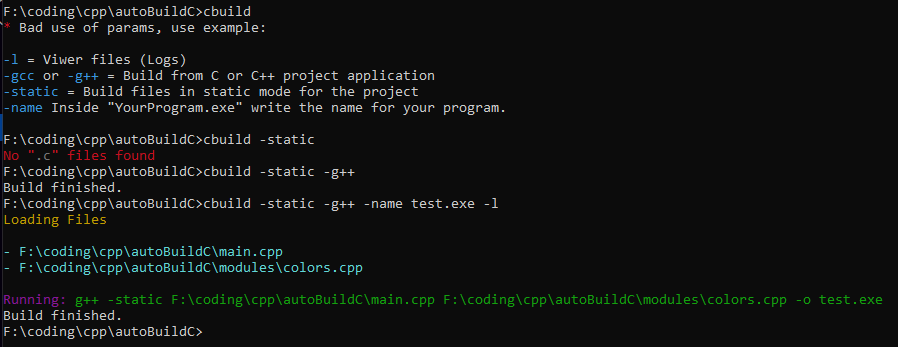
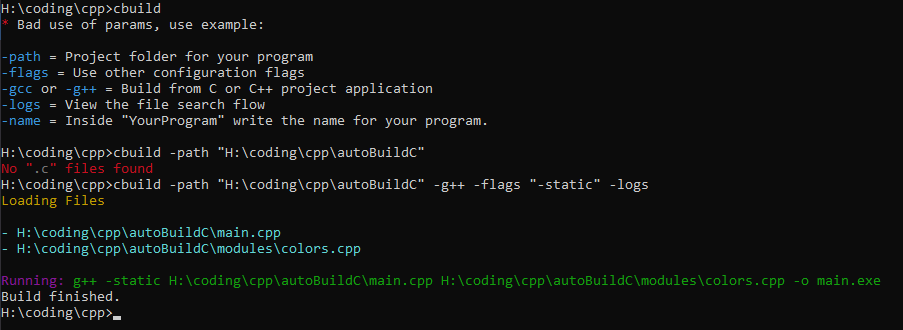
Melhorias de flexibilidade, adicionado novas flags e remoção da flag '-static', agora deve ser usando (-flags -static)

diff --git a/main.cpp b/main.cpp
@@ -22,27 +22,42 @@ void loopPath(const std::filesystem::path& path, std::string filter, bool& logs)
 
 int main(int argc, char* argv[]) {
   bool logsOpc = false;
-  bool staticOpc = false;
+  std::filesystem::path current_path = std::filesystem::current_path();
+  std::string otherFlags = "";
   std::string nameOpc = "main.exe";
   std::string code = "gcc ";
   std::string filter = ".c";
 
   #ifdef _WIN32
-  std::setlocale(LC_ALL, "Portuguese_Brazil.1252");
+  // std::setlocale(LC_ALL, "Portuguese_Brazil.1252");
   system("@echo off");
   system("title @Beta");
   #else
-  std::setlocale(LC_ALL, "pt_BR.UTF-8");
+  // std::setlocale(LC_ALL, "pt_BR.UTF-8");
   #endif
 
-  if (argc > 6 || argc < 2) {
-    std::cout << Colors::RED << "* " << Colors::DEFAULT << "Bad use of params, use example:\n\n" << Colors::BLUE << "-l " << Colors:: DEFAULT << "= Viwer files (Logs)\n" << Colors::BLUE << "-gcc "<< Colors::DEFAULT << "or" << Colors::BLUE << " -g++" << Colors::DEFAULT << " = Build from C or C++ project application\n" << Colors::BLUE << "-static " << Colors::DEFAULT << "= Build files in static mode for the project\n" << Colors::BLUE << "-name " << Colors::DEFAULT << "Inside \"YourProgram.exe\" write the name for your program." << std::endl;
+  if (argc < 2) {
+    std::cout << Colors::RED << "* " << Colors::DEFAULT << "Bad use of params, use example:\n\n"
+    << Colors::BLUE << "-path " << Colors::DEFAULT << "= Project folder for your program\n"
+    << Colors::BLUE << "-flags " << Colors::DEFAULT << "= Use other configuration flags\n"
+    << Colors::BLUE << "-gcc "<< Colors::DEFAULT << "or" << Colors::BLUE << " -g++" << Colors::DEFAULT << " = Build from C or C++ project application\n"
+    << Colors::BLUE << "-logs " << Colors:: DEFAULT << "= View the file search flow\n"
+    << Colors::BLUE << "-name " << Colors::DEFAULT << "= Inside \"YourProgram\" write the name for your program." << std::endl;
+    // << Colors::BLUE << "-cbignore " << Colors::DEFAULT << "= Create a file called "<< Colors::YELLOW << "\"cbignore\"" << Colors::DEFAULT << " which will contain everything that should not be read." << std::endl;
     return 1;
   }
-  for (int c = 1; c < argc; c++) {
+  for (int c = 1; c < argc; c++) { // A ordem das condições para o "code +=" afetem como sera formado o "Running"
     std::string args(argv[c]);
     std::transform(args.begin(), args.end(), args.begin(), [](unsigned char ch) { return std::tolower(ch); });
-    if (args == "-l") logsOpc = true;
+    if (args == "-path") {
+      try { current_path = std::string(argv[c+1]); }
+      catch(const std::exception& e) {
+        // std::cerr << e.what() << '\n';
+        std::cout << Colors::RED << "-path \"C:\\your\\path\\project\"" << Colors::DEFAULT;
+        return 1;
+      }
+    };
+    if (args == "-logs") logsOpc = true;
     // if (args == "-gcc") {
     //   files = "gcc ";
     //   filter = ".c";
@@ -51,22 +66,32 @@ int main(int argc, char* argv[]) {
       code = "g++ ";
       filter = ".cpp";
     }
-    if (args == "-static") staticOpc = true;
+    if (args == "-flags") {
+      try { otherFlags += std::string(argv[c+1])+" "; }
+      catch(const std::exception& e) {
+        // std::cerr << e.what() << '\n';
+        std::cout << Colors::RED << "-flags \"-example -example2\"" << Colors::DEFAULT;
+        return 1;
+      }
+    };
     if (args == "-name") {
-      nameOpc = std::string(argv[c+1]);
-      if (nameOpc.substr(nameOpc.length()-4) != ".exe") {
-        std::cout << Colors::RED << "-name \"YourProgram.exe\"" << Colors::DEFAULT;
+      try { nameOpc = std::string(argv[c+1]); }
+      catch(const std::exception& e) {
+        // std::cerr << e.what() << '\n';
+        std::cout << Colors::RED << "-name \"YourProgram\"" << Colors::DEFAULT;
         return 1;
       }
     };
   }
+
+  // Ordenando a formação do Running "code +="
   if (filter == ".c" && code != "gcc " || filter == ".cpp" && code != "g++ ") {
     std::cout << Colors::RED << "Parameter to filter wrongly used \"C\" and \"C++\" files" << Colors::DEFAULT;
     return 1;
   }
-  if (staticOpc) code += "-static ";
+  if (otherFlags.length() > 1) code += otherFlags;
   if (logsOpc) std::cout << Colors::YELLOW << "Loading Files\n" << Colors::DEFAULT << std::endl;
-  std::filesystem::path path = std::filesystem::current_path(); // path atual
+  std::filesystem::path path = current_path; // path atual
   loopPath(path, filter, logsOpc);
 
   if (filesDir.size() < 1) {
@@ -79,7 +104,13 @@ int main(int argc, char* argv[]) {
 
   // std::cout << argc << "    " << argv << Colors::RED << std::endl; // Local memory
   // std::cout << "Index 0" << filesDir[0] << Colors::DEFAULT << std::endl;
-  system(code.c_str());
-  std::cout << Colors::DEFAULT << "Build finished.";
+  std::filesystem::current_path(current_path);
+  try {
+    int err = system(code.c_str());
+    if (err == 0) std::cout << Colors::DEFAULT << "Build finished.";
+    else std::cout << Colors::RED << "\nCheck the compilation" << Colors::DEFAULT;
+  } catch(const std::exception& e) {
+    std::cout << Colors::DEFAULT << "Check the compilation.";
+  }
   return 0;
 }

diff --git a/README.md b/README.md
@@ -23,13 +23,15 @@ cbuild [options]
 
 ### Options
 
+* `-path <dirname>` Enter your project path. Default is where `cmd was started`.
+
+* `-flags <multi-flags>` To use with other flags in your project..
+
 * `-gcc` Filters and compiles only `.c` files using **gcc**. `Default option.`
 
 * `-g++` Filters and compiles only `.cpp` files using **g++**.
 
-* `-l` Enables **visual mode**, which prints out the full paths of all detected source files before compiling.
-
-* `-static` Creates in static mode.
+* `-logs` Enables **visual mode**, which prints out the full paths of all detected source files before compiling.
 
 * `-name <filename>` Sets the output executable name. Default is `main.exe`.
 
@@ -38,13 +40,13 @@ cbuild [options]
 Compile all `.c` files with `gcc` and show the file paths:
 
 ```bash
-cbuild -gcc -l
+cbuild -gcc -logs
 ```
 
 Compile in static mode all `.cpp` files with `g++` and name the output `myApp.exe`:
 
 ```bash
-cbuild -g++ -static -name myApp.exe
+cbuild -g++ -flags "-static" -name myApp.exe
 ```
 
 ## Notes
